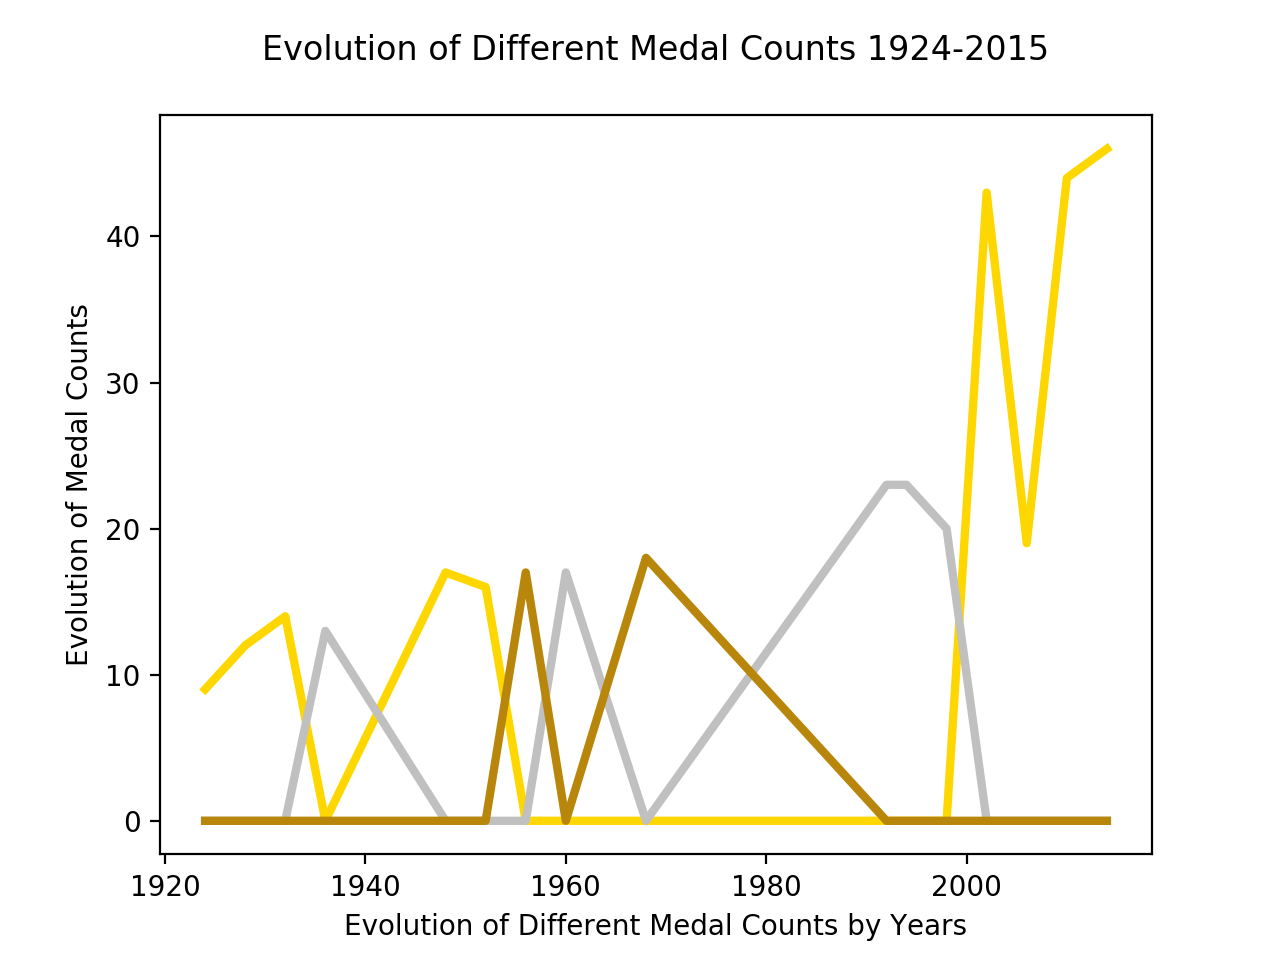
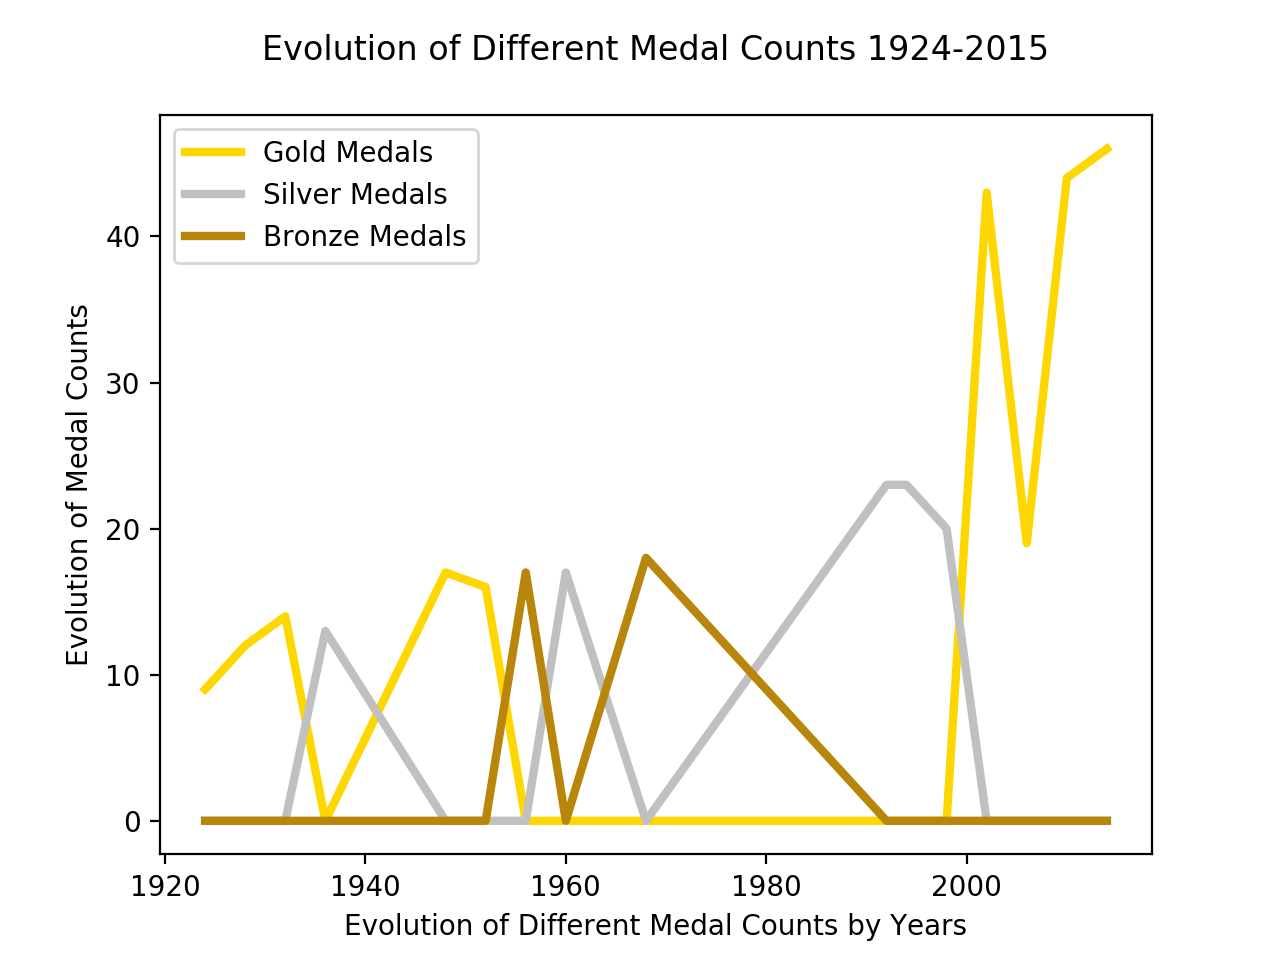
compare medals by gender

Changed region(s): [[0.125, 0.125, 0.375, 0.2812]]

diff --git a/data/medalsbygender.py b/data/medalsbygender.py
@@ -1,0 +1,36 @@
+# libraries
+import numpy as np
+import matplotlib.pyplot as plt
+ 
+# set width of bar
+barWidth = 0.2
+ 
+# set height of bar
+
+GoldMedals = [81, 139]
+SilverMedals = [20, 76]
+BronzeMedals = [0, 35]
+ 
+# Set position of bar on X axis
+
+r1 = np.arange(len(GoldMedals))
+r2 = [x + barWidth for x in r1]
+r3 = [x + barWidth for x in r2]
+ 
+# Make the plot
+
+plt.bar(r1, GoldMedals, color='gold', width=barWidth, edgecolor='white', label='Gold Medals')
+plt.bar(r2, SilverMedals, color='silver', width=barWidth, edgecolor='white', label='Silver Medals')
+plt.bar(r3, BronzeMedals, color='darkgoldenrod', width=barWidth, edgecolor='white', label='Bronze Medals')
+ 
+# Add xticks on the middle of the group bars
+# plt.xlabel('group', fontweight='bold')
+plt.xticks([r + barWidth for r in range(len(GoldMedals))], ['Women', 'Men'])
+
+plt.ylabel("Medal Counts")
+plt.xlabel("Medal Counts by Gender")
+plt.title("Gender Comparison of Gold, Silver and Bronze Medals 1924-2015", pad=20)
+ 
+# Create legend & Show graphic
+plt.legend()
+plt.show()

diff --git a/data/MedalsYears.py b/data/MedalsYears.py
@@ -8,9 +8,9 @@ SilverMedals = [0, 0, 0, 13, 0, 0, 0, 17, 0, 23, 23, 20, 0, 0, 0, 0]
 
 BronzeMedals = [0, 0, 0, 0, 0, 0, 17, 0, 18, 0, 0, 0, 0, 0, 0, 0]
 
-plt.plot(Years, GoldMedals, color=('gold'), linewidth=3.0)
-plt.plot(Years, SilverMedals, color=('silver'), linewidth=3.0)
-plt.plot(Years, BronzeMedals, color=('darkgoldenrod'), linewidth=3.0)
+plt.plot(Years, GoldMedals, color=('gold'), linewidth=3.0, label='Gold Medals')
+plt.plot(Years, SilverMedals, color=('silver'), linewidth=3.0, label='Silver Medals')
+plt.plot(Years, BronzeMedals, color=('darkgoldenrod'), linewidth=3.0, label='Bronze Medals')
 
 
 plt.ylabel("Evolution of Medal Counts")
@@ -19,4 +19,5 @@ plt.title("Evolution of Different Medal Counts 1924-2015", pad=20)
 
 
 # show the chart
+plt.legend()
 plt.show()

diff --git a/data/GenderYears.py b/data/GenderYears.py
@@ -6,8 +6,8 @@ MenMedals = [9, 12, 14, 13, 17, 16, 17, 17, 18, 23, 23, 0, 23, 0, 23, 25]
 
 WomenMedals = [0, 0, 0, 0, 0, 0, 0, 0, 0, 0, 0, 20, 20, 19, 21, 21]
 
-plt.plot(Years, MenMedals, color=('#b9dafe'), linewidth=3.0)
-plt.plot(Years, WomenMedals, color=('#fbc8cf'), linewidth=3.0)
+plt.plot(Years, MenMedals, color=('#b9dafe'), linewidth=3.0, label='Men')
+plt.plot(Years, WomenMedals, color=('#fbc8cf'), linewidth=3.0, label='Women')
 
 
 plt.ylabel("Evolution of Medal Counts")
@@ -15,4 +15,5 @@ plt.xlabel("Evolution of Medal Counts by Years")
 plt.title("Evolution of Medal Counts by Gender 1924-2015", pad=20)
 
 # show the chart
+plt.legend()
 plt.show()
